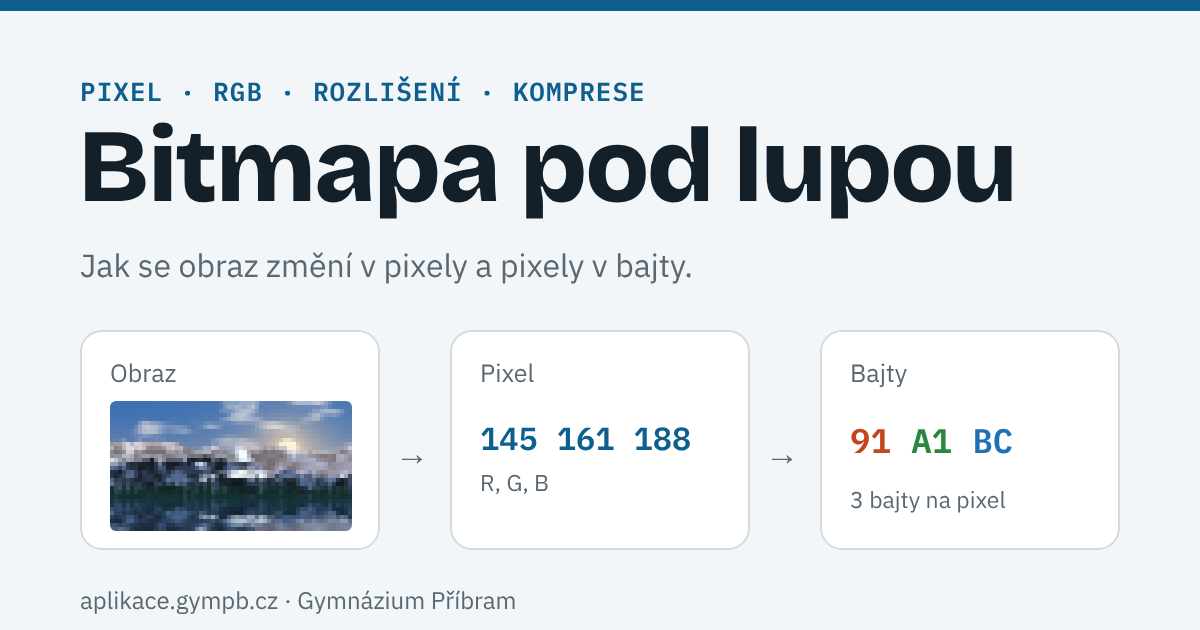
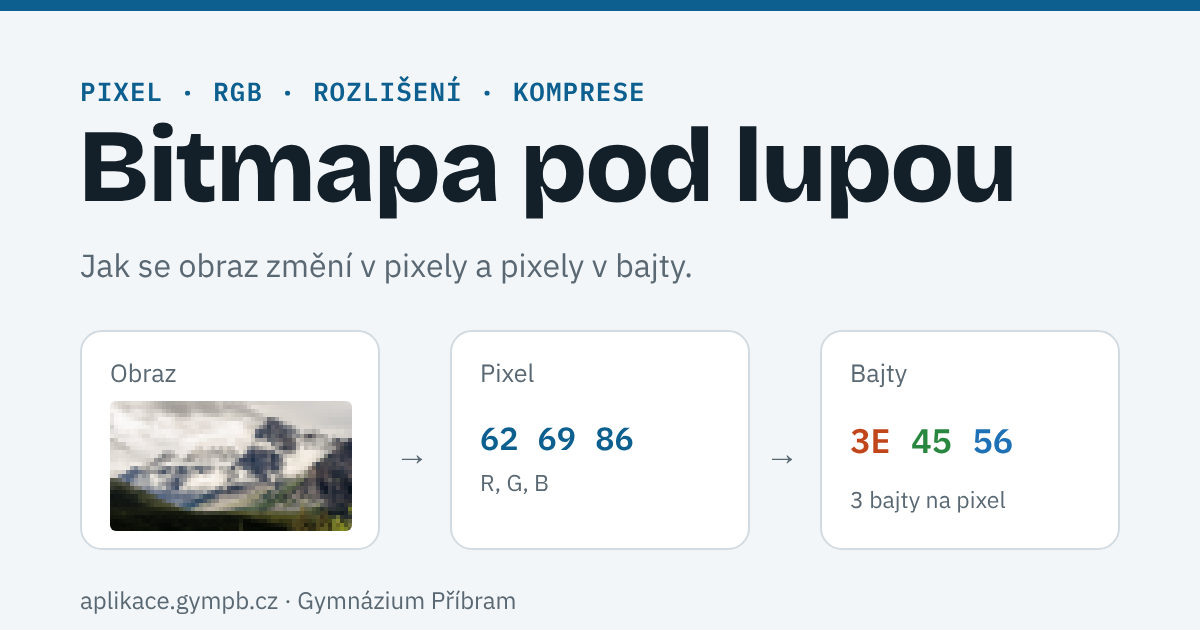
Bitmapa pod lupou: fotografie, české písmo na plakátu, šestnáctková soustava až v úrovni Pokročilý, HD ready a 5K
Claude-Session: https://claude.ai/code/session_01HrWVDGW6vytWfG9jkDxhtG

Changed region(s): [[0.0925, 0.6333, 0.3083, 0.8444], [0.4008, 0.6635, 0.5858, 0.7238], [0.7092, 0.6635, 0.8633, 0.7238]]

diff --git a/bitmapa-pod-lupou/index.html b/bitmapa-pod-lupou/index.html
@@ -348,6 +348,7 @@ canvas.tap{cursor:crosshair;touch-action:manipulation}
 .counts div{flex:1 1 130px}
 .ctl{display:grid;gap:10px}
 .nest{max-width:560px}
+canvas.pst{image-rendering:auto}
 #aa{max-width:520px}
 #chA{max-width:480px}
 #edN{grid-template-columns:1fr 1fr}
@@ -368,7 +369,7 @@ figcaption,.cap{font-size:.84rem;color:var(--muted);line-height:1.35}
 .bar{display:grid;grid-template-columns:minmax(84px,auto) minmax(0,1fr) minmax(76px,auto);gap:10px;align-items:center;font-size:.9rem}
 .bar i{display:block;height:16px;border-radius:0 4px 4px 0;background:var(--c,var(--accent));min-width:2px}
 .bar b{font:600 .88rem var(--mono);text-align:right}
-.bitgrid{display:grid;grid-template-columns:repeat(8,minmax(0,1fr)) minmax(4.4rem,auto) minmax(2.2rem,auto);gap:2px;align-items:center;max-width:430px}
+.bitgrid{display:grid;grid-template-columns:repeat(8,minmax(0,1fr)) minmax(4.8rem,auto);gap:2px;align-items:center;max-width:430px}
 .bitgrid button{aspect-ratio:1;border:1px solid var(--line);background:var(--paper);border-radius:3px;padding:0;cursor:pointer;min-width:0;min-height:30px}
 .bitgrid button[aria-pressed="true"]{background:var(--ink);border-color:var(--ink)}
 .bitgrid code{font-size:.74rem;padding-left:8px;white-space:nowrap}
@@ -467,8 +468,8 @@ canvas#ed{touch-action:none;cursor:crosshair}
     <div><span class="eyebrow">Kapitola 1</span><h2>Plakát, který z tiskárny vylezl rozbitý</h2></div>
     <p>Adéla dělá plakát na lyžák. Stáhla si hezký obrázek hor a na monitoru vypadal výborně. Z tiskárny na formát A2 ale vyšlo tohle:</p>
     <div class="duo">
-      <figure><canvas id="hookSmall" width="360" height="510" class="px" style="max-width:190px"></canvas><figcaption>Na monitoru: malý náhled, vypadá dobře.</figcaption></figure>
-      <figure><canvas id="hookBig" width="500" height="707" class="px"></canvas><figcaption>Vytištěno na A2 (42 × 59 cm): text je ostrý, hory jsou z kostek.</figcaption></figure>
+      <figure><canvas id="hookSmall" width="480" height="679" class="px pst" style="max-width:190px"></canvas><figcaption>Na monitoru: malý náhled, vypadá dobře.</figcaption></figure>
+      <figure><canvas id="hookBig" width="1000" height="1414" class="px pst"></canvas><figcaption>Vytištěno na A2 (42 × 59 cm): text je ostrý, hory jsou z kostek.</figcaption></figure>
     </div>
     <div class="cj-row"><span class="ct" data-s="s-boo"></span><p class="say"><b class="who">Čtverák</b>Au! To jsem já a moji bratranci, nafouknutí na velikost dlaždic. Jmenuju se Čtverák a jsem <b>pixel</b>. Pomůžeš mi zjistit, co se stalo?</p></div>
     <div class="kq poll" data-ok="*">
@@ -498,7 +499,7 @@ canvas#ed{touch-action:none;cursor:crosshair}
       <div><dt>Rozlišení</dt><dd>Kolik pixelů má obrázek na šířku a na výšku, třeba 1920 × 1080.</dd></div>
     </dl>
     <div class="box try"><span class="lbl">Obrázek z čísel</span>
-      <p>Název <b>bitmapa</b> je doslova „mapa bitů“. V nejjednodušším obrázku je pixel buď černý (1), nebo bílý (0). Vpravo od mřížky je zápis řádku v bitech a v šestnáctkové soustavě. Rozsviť políčka tak, aby sedělo všech 8 řádků:</p>
+      <p>Název <b>bitmapa</b> je doslova „mapa bitů“. V nejjednodušším obrázku je pixel buď černý (1), nebo bílý (0). Vpravo od mřížky je zápis každého řádku v bitech. Rozsviť políčka tak, aby sedělo všech 8 řádků ze zadání:</p>
       <p class="target" id="bitsTarget"></p>
       <div class="bitgrid" id="bits8"></div>
       <div class="cj-row"><span class="ct" id="bitsCt" data-s="s-ok"></span><p class="say" id="bitsSay"></p></div>
@@ -567,11 +568,12 @@ canvas#ed{touch-action:none;cursor:crosshair}
       <div class="why">Co se při focení neuložilo, v obrázku není. Zvětšení jen roztáhne to, co už tam je. Umělá inteligence umí detaily <i>vymyslet</i>, ale nejsou to skutečné informace ze scény.</div>
     </div>
     <p>Rozlišení displejů se značí zkratkami. Rámečky jsou ve stejném měřítku:</p>
-    <div class="nest" id="nest" aria-label="Porovnání velikosti HD, Full HD, 4K a 8K"></div>
+    <div class="nest" id="nest" aria-label="Porovnání velikosti HD ready, Full HD, 4K, 5K a 8K"></div>
     <div class="tw"><table><thead><tr><th>Název</th><th>Rozlišení</th><th>Pixelů</th><th>Kde se potkáte</th></tr></thead><tbody>
-      <tr><td>HD</td><td><code>1280 × 720</code></td><td>0,9 milionu</td><td>levné notebooky, starší televize</td></tr>
+      <tr><td>HD ready</td><td><code>1280 × 720</code></td><td>0,9 milionu</td><td>levné notebooky, starší televize</td></tr>
       <tr><td>Full HD</td><td><code>1920 × 1080</code></td><td>2,1 milionu</td><td>běžný monitor, video na YouTube</td></tr>
       <tr><td>4K UHD</td><td><code>3840 × 2160</code></td><td>8,3 milionu</td><td>televize, lepší monitory</td></tr>
+      <tr><td>5K</td><td><code>5120 × 2880</code></td><td>14,7 milionu</td><td>monitory pro grafiky a střih videa</td></tr>
       <tr><td>8K UHD</td><td><code>7680 × 4320</code></td><td>33,2 milionu</td><td>špičkové televize</td></tr>
     </tbody></table></div>
     <div class="box tip"><span class="lbl">Megapixel</span><p>Fotoaparáty a mobily uvádějí počet pixelů v <b>megapixelech</b>: 1 Mpx je milion pixelů. Snímek 4000 × 3000 má 12 Mpx. Poměr šířky a výšky se jmenuje <b>poměr stran</b>: televize má obvykle 16 : 9, fotka 4 : 3, mobil na výšku třeba 9 : 19,5.</p></div>
@@ -596,7 +598,7 @@ canvas#ed{touch-action:none;cursor:crosshair}
     <p>Jenže mobil uloží takovou fotku jen do 3 až 5 MB. Jak to? Obrázek se <b>zkomprimuje</b>. Dva hlavní přístupy zkoumej přímo: tady je opravdová velikost dvou obrázků, kterou právě teď spočítal tvůj prohlížeč.</p>
     <div class="box try"><span class="lbl">Fotka a kresba</span>
       <div class="duo">
-        <figure><canvas id="cmpA" width="480" height="320" class="px"></canvas><figcaption>Fotografie: plynulé přechody, zrno.</figcaption><div class="bars" id="cmpAb"></div></figure>
+        <figure><canvas id="cmpA" width="480" height="320" class="px"></canvas><figcaption>Fotografie: plynulé přechody, spousta detailů.</figcaption><div class="bars" id="cmpAb"></div></figure>
         <figure><canvas id="cmpB" width="480" height="320" class="px"></canvas><figcaption>Kresba: čisté plochy, ostré hrany, text.</figcaption><div class="bars" id="cmpBb"></div></figure>
       </div>
       <p class="muted" style="font-size:.92rem">Čím si to vysvětluješ? PNG si pamatuje každý pixel přesně a nejlépe mu jdou stejné plochy, proto je u fotky mnohem větší než JPG. JPG cíleně zahazuje detaily, což fotka snese. Kresba by po něm měla kolem písmen šmouhy.</p>
@@ -675,9 +677,9 @@ canvas#ed{touch-action:none;cursor:crosshair}
     <div><span class="eyebrow">Kapitola 1</span><h2>Od scény k bajtům</h2></div>
     <p>Skutečný svět je spojitý, počítač umí jen konečně mnoho čísel. Vznik bitmapy proto probíhá ve třech krocích.</p>
     <div class="chain" aria-label="Od scény k bajtům">
-      <div><small>1 · Vzorkování</small><span class="big mono" id="chPos">x 212, y 96</span><small>Scéna se rozdělí na mřížku. Kolik buněk, to je rozlišení.</small></div>
+      <div><small>1 · Vzorkování</small><span class="big mono" id="chPos">x 300, y 150</span><small>Scéna se rozdělí na mřížku. Kolik buněk, to je rozlišení.</small></div>
       <div><small>2 · Kvantování</small><span class="big mono" id="chRgb">—</span><small>Barva každé buňky se zaokrouhlí na konečný počet hodnot.</small></div>
-      <div><small>3 · Kódování</small><span class="big mono" id="chHex">—</span><small>Čísla se zapíšou do bajtů a řádek po řádku uloží do souboru.</small></div>
+      <div><small>3 · Kódování</small><span class="big mono" id="chHex">—</span><small>Čísla se zapíšou do bajtů a řádek po řádku uloží do souboru. Zápis v šestnáctkové soustavě vysvětlí kapitola 3.</small></div>
     </div>
     <dl class="terms">
       <div><dt>Rastrová (bitmapová) grafika</dt><dd>Obraz popsaný mřížkou pixelů. Vhodná na fotografie.</dd></div>
@@ -730,7 +732,17 @@ canvas#ed{touch-action:none;cursor:crosshair}
       <div class="venn add" id="venn"><svg viewBox="0 0 200 180" role="img" aria-label="Tři překrývající se barevné kruhy"><circle id="v1" cx="100" cy="65" r="55"/><circle id="v2" cx="68" cy="115" r="55"/><circle id="v3" cx="132" cy="115" r="55"/></svg></div>
       <p id="vennT"></p>
     </div>
-    <p>Na webu se barvy zapisují v šestnáctkové soustavě jako <b>HEX</b>: dvojice znaků za každou složku. Jedna šestnáctková číslice zapíše přesně 4 bity, takže bajt jsou vždy dva znaky, od <code>00</code> do <code>FF</code>.</p>
+    <p>Na webu a v grafických programech se barvy zapisují v šestnáctkové soustavě jako <b>HEX</b>: <code>#0C5F8F</code>. Číslice A až F znamenají hodnoty 10 až 15.</p>
+    <div class="box tip"><span class="lbl">Proč zrovna šestnáctková soustava</span>
+      <p>Počítač ukládá bity, jenže barva v bitech má 24 číslic a člověk se v nich snadno splete. Desítková čísla jsou kratší, ale hranice mezi bajty a bity v nich nejsou vidět.</p>
+      <p>Šestnáctková soustava obě nevýhody řeší, protože 16 = 2<sup>4</sup>: <b>jedna číslice zapíše přesně 4 bity</b>. Bajt jsou vždy dvě číslice, od <code>00</code> do <code>FF</code>, a každá složka barvy má pevné místo.</p>
+      <div class="tw"><table><thead><tr><th>Zápis</th><th>Stejná barva</th><th>Délka</th></tr></thead><tbody>
+        <tr><td>dvojkově</td><td><code>00001100 01011111 10001111</code></td><td>24 znaků</td></tr>
+        <tr><td>desítkově</td><td><code>12, 95, 143</code></td><td>různá</td></tr>
+        <tr><td>šestnáctkově</td><td><code>0C 5F 8F</code></td><td>vždy 6 znaků</td></tr>
+      </tbody></table></div>
+      <p>Barvu je z něj navíc vidět na první pohled: <code>#FF0000</code> má naplno první složku, tedy červenou.</p>
+    </div>
     <div class="box try"><span class="lbl">Jedna barva, čtyři zápisy</span>
       <div class="ctl">
         <div class="sl r"><label for="hR">Červená (R)</label><output id="hRv"></output><input type="range" id="hR" min="0" max="255" value="12"></div>
@@ -755,7 +767,7 @@ canvas#ed{touch-action:none;cursor:crosshair}
     <div class="kq poll" data-ok="*">
       <p class="q">Odhadni: kolik odstínů na jednu složku RGB je potřeba, aby fotka vypadala přirozeně?</p>
       <div class="opts"><button data-v="a">Stačí 4.</button><button data-v="b">Asi 32.</button><button data-v="c">Nejméně 256.</button></div>
-      <div class="why">Ověř si to na obrázku níže. Začni na hodnotě 8 bitů a postupně ubírej, nejlépe na plynulém pozadí scény Koule.</div>
+      <div class="why">Ověř si to na obrázku níže. Začni na hodnotě 8 bitů a postupně ubírej, nejlépe na obloze ve scéně Soumrak.</div>
     </div>
     <p><b>Barevná hloubka</b> říká, kolik bitů připadá na pixel. S <i>n</i> bity lze rozlišit <b>2<sup>n</sup></b> hodnot.</p>
     <div class="box try"><span class="lbl">Ubírej bity</span>
@@ -939,7 +951,7 @@ canvas#ed{touch-action:none;cursor:crosshair}
       <div class="seg" id="ipSeg"><button data-m="nearest" aria-pressed="true">Nejbližší soused</button><button data-m="bilinear" aria-pressed="false">Bilineární</button><button data-m="bicubic" aria-pressed="false">Bikubická</button></div>
       <div class="duo">
         <figure><canvas id="ipC" width="360" height="240" class="px"></canvas><figcaption id="ipT"></figcaption></figure>
-        <figure><canvas id="ipO" width="60" height="40" class="px" style="max-width:240px"></canvas><figcaption>Zdroj má jen 60 × 40 pixelů. Žádná metoda z něj nevyrobí ostré jehličí.</figcaption></figure>
+        <figure><canvas id="ipO" width="60" height="40" class="px" style="max-width:240px"></canvas><figcaption>Zdroj má jen 60 × 40 pixelů. Žádná metoda z něj nevyrobí ostré skály.</figcaption></figure>
       </div>
     </div>
     <div class="box try"><span class="lbl">Zubaté hrany</span>
@@ -1092,7 +1104,7 @@ canvas#ed{touch-action:none;cursor:crosshair}
   </div>
   <div class="cols">
     <div class="panel"><h3>Co je v paměti</h3>
-      <div class="seg" id="edView"><button data-v="hex" aria-pressed="true">Šestnáctkově</button><button data-v="bin" aria-pressed="false">Dvojkově</button><button data-v="rle" aria-pressed="false">RLE</button></div>
+      <div class="seg" id="edView"><button data-v="bin" aria-pressed="true">Dvojkově</button><button data-v="hex" aria-pressed="false">Šestnáctkově</button><button data-v="rle" aria-pressed="false">RLE</button></div>
       <div class="dump" id="edDump" tabindex="0" aria-label="Obsah obrázku v paměti"></div>
     </div>
     <div class="panel"><h3>Uložit</h3>
@@ -1274,7 +1286,7 @@ magick identify foto.jpg</pre>
 </ol>
 <p>Nápady na pokusy vznikly i z žákovských prací v <a href="../portfolio/">portfoliu</a>: skupiny 4A-BST a Seminář informačních technologií, školní rok 2026/27.</p>
 </details>
-<p>Bitmapa pod lupou · výukový materiál. Ukázkové obrázky generuje aplikace přímo v prohlížeči. Velikosti souborů jsou skutečné a závisejí na prohlížeči.<br>Autor: Ivo Bešťák · Gymnázium Příbram · Licence <a href="https://creativecommons.org/licenses/by/4.0/deed.cs">CC BY 4.0</a> · Aktualizace: 5. 11. 2026</p></footer>
+<p>Bitmapa pod lupou · výukový materiál. Fotografie: Unsplash, licence CC0. Velikosti souborů jsou skutečné a závisejí na prohlížeči.<br>Autor: Ivo Bešťák · Gymnázium Příbram · Licence <a href="https://creativecommons.org/licenses/by/4.0/deed.cs">CC BY 4.0</a> · Aktualizace: 5. 11. 2026</p></footer>
 </div>
 
 <script>
@@ -1332,47 +1344,6 @@ function vnoise(seed){
 }
 const fbm=(n,x,y,o=5)=>{let s=0,a=.5,f=1;for(let i=0;i<o;i++){s+=a*n(x*f,y*f);a*=.5;f*=2.03;}return s;};
 const mix=(a,b,t)=>a+(b-a)*t;
-function sceneLand(){
-  const W=W0,H=H0,d=new Uint8ClampedArray(W*H*4), n=vnoise(7), rn=mkRng(3), water=236;
-  const put=(i,r,g,b)=>{d[i]=r;d[i+1]=g;d[i+2]=b;d[i+3]=255;};
-  const L=[{y:128,a:58,f:.012,s:1,c:[138,160,196]},{y:158,a:86,f:.009,s:9,c:[92,116,156]},{y:196,a:92,f:.0075,s:23,c:[58,78,104]}];
-  const rid=L.map(l=>{const a=new Float32Array(W);for(let x=0;x<W;x++)a[x]=l.y-(fbm(n,x*l.f+l.s,l.s*.7,6)-.45)*2*l.a;return a;});
-  for(let y=0;y<water;y++)for(let x=0;x<W;x++){
-    const t=y/water; let r=mix(62,248,t*t),g=mix(112,196,t*t),b=mix(178,150,t*t);
-    const ds=Math.hypot(x-352,y-112), glow=Math.exp(-ds/60); r=mix(r,255,glow);g=mix(g,226,glow*.9);b=mix(b,170,glow*.6);
-    if(ds<19){r=255;g=246;b=214;}
-    const c=clamp((fbm(n,x*.012+40,y*.03+9,5)-.52)*5,0,1)*(1-t*.7); r=mix(r,255,c*.8);g=mix(g,240,c*.8);b=mix(b,232,c*.8);
-    for(let k=0;k<3;k++){const ry=rid[k][x]; if(y<ry) continue; const l=L[k];
-      const tex=fbm(n,x*.05+k*5,y*.05,4), sh=clamp(.62+(tex-.48)*2.1,.25,1.35), de=y-ry;
-      r=l.c[0]*sh;g=l.c[1]*sh;b=l.c[2]*sh;
-      const snowH=k===2?34:k===1?22:12, line=l.y-l.a*.1+(tex-.5)*44;
-      if(y<line&&de<snowH+tex*36){const sn=clamp(.82+(tex-.5)*1.6,.45,1.08);r=232*sn;g=238*sn;b=250*sn;}
-      if(k===0){const hz=.45;r=mix(r,214,hz);g=mix(g,190,hz);b=mix(b,190,hz);}
-    }
-    if(y>190){const tr=x+Math.floor(fbm(n,x*.3,1,2)*24);const h=20+fbm(n,tr*.09,4,3)*44,top=water-h;
-      const col=Math.abs(((x+Math.floor(y*.1))%19)-9)<(y-top)*.22; if(y>top&&col){const v=.6+fbm(n,x*.4,y*.4,2)*.8;r=20*v;g=52*v;b=44*v;}}
-    put((y*W+x)*4,r,g,b);
-  }
-  for(let y=water;y<H;y++)for(let x=0;x<W;x++){
-    const wv=Math.sin(y*.9+fbm(n,x*.03,y*.2,3)*9)*(y-water)*.09, sy=clamp(Math.round(2*water-y+wv*.4),0,water-1), sx=clamp(Math.round(x+wv),0,W-1), j=(sy*W+sx)*4, f=.72;
-    put((y*W+x)*4,d[j]*f+8,d[j+1]*f+18,d[j+2]*f+30);
-  }
-  for(let i=0;i<d.length;i+=4){const g=(rn()-.5)*7;d[i]=d[i]+g;d[i+1]=d[i+1]+g;d[i+2]=d[i+2]+g;}
-  return new ImageData(d,W,H);
-}
-function sceneBalls(){
-  const W=W0,H=H0,d=new Uint8ClampedArray(W*H*4);
-  const S=[[150,190,74,[214,58,48]],[318,172,92,[42,120,214]],[238,258,44,[240,190,50]],[70,262,34,[40,170,110]],[420,270,38,[150,80,200]]];
-  const L=[-.5,-.7,.5], ll=Math.hypot(...L), lx=L[0]/ll,ly=L[1]/ll,lz=L[2]/ll;
-  for(let y=0;y<H;y++)for(let x=0;x<W;x++){
-    const t=y/H; let r=mix(232,108,t),g=mix(236,124,t),b=mix(242,150,t);
-    for(const [cx,cy,R] of S){const dx=(x-cx-R*.4)/(R*1.15),dy=(y-cy-R*.9)/(R*.34),e=dx*dx+dy*dy;if(e<1){const f=1-.5*(1-e);r*=f;g*=f;b*=f;}}
-    for(const [cx,cy,R,c] of S){const dx=(x-cx)/R,dy=(y-cy)/R,q=dx*dx+dy*dy;if(q<=1){const z=Math.sqrt(1-q),di=Math.max(0,dx*lx+dy*ly+z*lz);
-      const hz=2*di*z-lz,sp=Math.pow(Math.max(0,hz),40),a=.16+.84*di;r=c[0]*a+255*sp;g=c[1]*a+255*sp;b=c[2]*a+255*sp;}}
-    const i=(y*W+x)*4;d[i]=r;d[i+1]=g;d[i+2]=b;d[i+3]=255;
-  }
-  return new ImageData(d,W,H);
-}
 function sceneFlat(){
   const c=mkC(W0,H0),x=c.getContext('2d',{willReadFrequently:true});
   x.fillStyle='#fdf6e3';x.fillRect(0,0,W0,H0);x.fillStyle='#0c5f8f';x.fillRect(0,0,W0,92);
@@ -1390,10 +1361,16 @@ function sceneZone(){
   for(let y=0;y<H;y++)for(let x=0;x<W;x++){const r2=(x-W/2)**2+(y-H/2)**2,v=127.5+127.5*Math.cos(r2*.0065),i=(y*W+x)*4;d[i]=d[i+1]=d[i+2]=v;d[i+3]=255;}
   return new ImageData(d,W,H);
 }
-const SC={krajina:['Krajina',sceneLand],koule:['Koule',sceneBalls],plochy:['Kresba',sceneFlat],vlny:['Jemné vlny',sceneZone]};
+const PHOTOS={krajina:'foto-hory.jpg',soumrak:'foto-soumrak.jpg'}, fullCache={};
+const SC={krajina:['Hory',null],soumrak:['Soumrak',null],plochy:['Kresba',sceneFlat],vlny:['Jemné vlny',sceneZone]};
 const scCache={};
+function loadPhoto(k){return new Promise(res=>{const im=new Image();
+  im.onload=()=>{const c=mkC(im.naturalWidth,im.naturalHeight),x=c.getContext('2d',{willReadFrequently:true});x.drawImage(im,0,0);
+    fullCache[k]=x.getImageData(0,0,c.width,c.height);scCache[k]=down(fullCache[k],W0,H0);res();};
+  im.onerror=()=>{scCache[k]=sceneFlat();res();};im.src=PHOTOS[k];});}
 function mkC(w,h){const c=document.createElement('canvas');c.width=w;c.height=h;return c;}
 function scene(k){return scCache[k]||(scCache[k]=SC[k][1]());}
+const fullScene=k=>fullCache[k]||scene(k);
 function put(cv,img){if(cv.width!==img.width)cv.width=img.width;if(cv.height!==img.height)cv.height=img.height;cv.getContext('2d').putImageData(img,0,0);}
 function chipScene(el,def,fn,keys){
   keys=keys||Object.keys(SC);
@@ -1535,11 +1512,11 @@ function drawPoster(cv,sw){
   x.font=`400 ${4.4*u}px "IBM Plex Sans",sans-serif`;x.fillText('u vyučujících tělesné výchovy',W/2,H-9*u);
   x.textAlign='start';
 }
-function posters(){drawPoster($('#hookSmall'),480);drawPoster($('#hookBig'),36);$('#cmpB').getContext('2d').putImageData(scene('plochy'),0,0);}
+function posters(){drawPoster($('#hookSmall'),480);drawPoster($('#hookBig'),48);$('#cmpB').getContext('2d').putImageData(scene('plochy'),0,0);}
 
 /* přiblížení a inspektor */
 (function(){
-  const cv=$('#zoomC'),ctx=cv.getContext('2d'),S=$('#zoomS');let img,sel=[352,112],cx=352,cy=112;
+  const cv=$('#zoomC'),ctx=cv.getContext('2d'),S=$('#zoomS');let img,sel=[318,62],cx=318,cy=62;
   const P=320;
   function draw(){
     img=img||scene('krajina');
@@ -1558,7 +1535,7 @@ function posters(){drawPoster($('#hookSmall'),480);drawPoster($('#hookBig'),36);
   }
   function info(){
     const i=(sel[1]*W0+sel[0])*4,d=img.data,[r,g,b]=[d[i],d[i+1],d[i+2]];
-    $('#zoomF').innerHTML=`<dt>Sloupec, řádek</dt><dd>${sel[0]}, ${sel[1]}</dd><dt>Červená</dt><dd>${r}</dd><dt>Zelená</dt><dd>${g}</dd><dt>Modrá</dt><dd>${b}</dd><dt>Bajty</dt><dd>${hx(r)} ${hx(g)} ${hx(b)}</dd>`;
+    $('#zoomF').innerHTML=`<dt>Sloupec, řádek</dt><dd>${sel[0]}, ${sel[1]}</dd><dt>Červená</dt><dd>${r}</dd><dt>Zelená</dt><dd>${g}</dd><dt>Modrá</dt><dd>${b}</dd>`;
     $('#zoomSw').style.background=`rgb(${r},${g},${b})`;
   }
   lazy.zoom=()=>{draw();info();};
@@ -1573,11 +1550,11 @@ function posters(){drawPoster($('#hookSmall'),480);drawPoster($('#hookBig'),36);
   const G=$('#bits8');let t=0,cur=new Array(8).fill(0);
   function draw(){
     const T=PICS[t][1];
-    G.innerHTML=cur.map((v,y)=>[...Array(8)].map((_,x)=>`<button aria-label="Řádek ${y+1}, sloupec ${x+1}" aria-pressed="${!!(v>>(7-x)&1)}" data-y="${y}" data-x="${x}"></button>`).join('')+`<code class="${v===T[y]?'good':''}">${bin(v)}</code><code class="h">${hx(v)}</code>`).join('');
-    $('#bitsTarget').innerHTML=T.map((v,i)=>`<span>${i+1}: ${hx(v)}</span>`).join('');
+    G.innerHTML=cur.map((v,y)=>[...Array(8)].map((_,x)=>`<button aria-label="Řádek ${y+1}, sloupec ${x+1}" aria-pressed="${!!(v>>(7-x)&1)}" data-y="${y}" data-x="${x}"></button>`).join('')+`<code class="${v===T[y]?'good':''}">${bin(v)}</code>`).join('');
+    $('#bitsTarget').innerHTML=T.map((v,i)=>`<span>${i+1}: ${bin(v)}</span>`).join('');
     const ok=cur.every((v,i)=>v===T[i]);
     ctDraw($('#bitsCt'),ok?'s-win':'s-ok');
-    $('#bitsSay').innerHTML=`<b class="who">Čtverák</b>`+(ok?`To je ${PICS[t][0]}! Přesně tak vidí obrázek počítač: 8 bajtů. Každý z nich je jeden řádek.`:`Začni třeba tím, že si převedeš řádek ze zadání: <code>${hx(T[1])}</code> je dvojkově <code>${bin(T[1])}</code>. Jednička je černé políčko.`);
+    $('#bitsSay').innerHTML=`<b class="who">Čtverák</b>`+(ok?`To je ${PICS[t][0]}! Přesně tak vidí obrázek počítač: 8 bajtů. Každý z nich je jeden řádek.`:`Jednička v zadání je černé políčko, nula bílé. Začni druhým řádkem: <code>${bin(T[1])}</code>.`);
   }
   G.onclick=e=>{const b=e.target.closest('[data-y]');if(!b)return;cur[+b.dataset.y]^=1<<(7-+b.dataset.x);draw();};
   $('#bitsNew').onclick=()=>{t=(t+1)%PICS.length;cur=new Array(8).fill(0);draw();};
@@ -1614,7 +1591,7 @@ function rgbSliders(ids,fn){
     $('#resV').textContent=`${w} × ${h}`;
     $('#resN').innerHTML=`<div><b>${nf(w*h)}</b><span>pixelů celkem</span></div><div><b>${fmtSize(w*h*3)}</b><span>bez komprese</span></div>`;}
   lazy.res=run;S.oninput=run;
-  const R=[['8K',7680,4320,'var(--k1)'],['4K',3840,2160,'var(--k3)'],['Full HD',1920,1080,'var(--k2)'],['HD',1280,720,'var(--k4)']];
+  const R=[['8K',7680,4320,'var(--k1)'],['5K',5120,2880,'var(--r)'],['4K',3840,2160,'var(--k3)'],['Full HD',1920,1080,'var(--k2)'],['HD ready',1280,720,'var(--k4)']];
   $('#nest').innerHTML=R.map(([n,w,h,c])=>`<div style="width:${w/76.8}%;height:${h/43.2}%;--c:${c}"><span>${n}</span></div>`).join('');
 })();
 
@@ -1694,7 +1671,7 @@ runGame({body:'#pBody',r:'#pRound',s:'#pScore',win:'Plakáty jsou zachráněné,
 /* ========== POKROČILÝ ========== */
 lazy.r4=function(){
   /* řetězec */
-  {const i=scene('krajina'),p=(96*W0+212)*4,d=i.data,[r,g,b]=[d[p],d[p+1],d[p+2]];
+  {const i=scene('krajina'),p=(150*W0+300)*4,d=i.data,[r,g,b]=[d[p],d[p+1],d[p+2]];
    $('#chRgb').textContent=`${r}, ${g}, ${b}`;$('#chHex').textContent=`${hx(r)} ${hx(g)} ${hx(b)}`;}
   /* bitmapa a vektor */
   {const c=$('#vecC');c.width=c.height=40;const x=c.getContext('2d');x.fillStyle='#fff';x.fillRect(0,0,40,40);x.fillStyle='#0c5f8f';x.beginPath();x.arc(20,20,15,0,7);x.fill();
@@ -1703,10 +1680,10 @@ lazy.r4=function(){
    const wr=$('#vecR');wr.style.display='grid';wr.style.placeItems='center';
    const s=$('#vecS2'),S=$('#vecS');S.oninput=()=>{const z=+S.value,w=40/z,o=20-w/2;c.style.transform=`scale(${z})`;s.setAttribute('viewBox',`${o} ${o} ${w} ${w}`);$('#vecV').textContent=z+'×';};}
   /* barevná hloubka */
-  {let k='koule';const S=$('#depS'),D=$('#depD');
+  {let k='soumrak';const S=$('#depS'),D=$('#depD');
    function run(){const n=+S.value,o=quant(scene(k),n,D.checked);put($('#depC'),o);$('#depV').textContent=n;
      const bp=n*3;$('#depN').innerHTML=`<div><b>${1<<n}</b><span>odstínů na složku</span></div><div><b>${bp}</b><span>bitů na pixel</span></div><div><b>${nf(2**bp)}</b><span>barev celkem</span></div><div><b>${fmtSize(W0*H0*bp/8)}</b><span>bez komprese</span></div>`;}
-   chipScene($('#depScene'),k,v=>{k=v;run();},['krajina','koule']);S.oninput=run;D.onchange=run;run();}
+   chipScene($('#depScene'),k,v=>{k=v;run();},['soumrak','krajina']);S.oninput=run;D.onchange=run;run();}
   jpegDemo();interp();aaDemo();
 };
 const V={add:[['#f00','#0f0','#00f'],'Na černém pozadí svítí tři světla. Kde se překrývají, přibývá světla: červená a zelená dají žlutou, všechny tři bílou. Tak funguje displej.'],
@@ -1766,7 +1743,7 @@ $('#fadeC').onclick=()=>{const a=parseN($('#fadeA').value),b=parseN($('#fadeB').
 /* JPEG */
 function jpegDemo(){
   let k='plochy',tok=0,tm;const S=$('#jpS'),C=$('#jpC'),Z=$('#jpZ');
-  const CROP={plochy:[250,116,120,80],krajina:[300,150,120,80],koule:[190,130,120,80]};
+  const CROP={plochy:[250,116,120,80],krajina:[300,150,120,80],soumrak:[190,60,120,80]};
   function zoom(){const [x,y,w,h]=CROP[k],z=Z.getContext('2d');z.imageSmoothingEnabled=false;z.drawImage(C,x,y,w,h,0,0,240,160);}
   async function run(){
     const t=++tok,q=+S.value,src=scene(k);$('#jpV').textContent=q;
@@ -1778,7 +1755,7 @@ function jpegDemo(){
     $('#genT').textContent='';
   }
   S.oninput=()=>{clearTimeout(tm);tm=setTimeout(run,60);};
-  chipScene($('#jpScene'),k,v=>{k=v;run();},['plochy','krajina','koule']);
+  chipScene($('#jpScene'),k,v=>{k=v;run();},['plochy','krajina','soumrak']);
   $('#genB').onclick=async()=>{
     const b=$('#genB');b.disabled=true;tok++;let im=scene(k),sz=0;
     for(let n=1;n<=30;n++){
@@ -1856,7 +1833,7 @@ function aaDemo(){
 })();
 /* ========== LABORATOŘ ========== */
 lazy.lab=function(){
-  let base=scene('krajina'),sel=[240,110],proc,tok=0,tm;
+  let base=fullScene('krajina'),sel=[480,220],proc,tok=0,tm;
   const SC_=[1,2,4,8,16,32],E=id=>$('#'+id);
   function make(){
     const f=SC_[+E('labS').value],w=Math.max(1,Math.round(base.width/f)),h=Math.max(1,Math.round(base.height/f));
@@ -1902,7 +1879,7 @@ lazy.lab=function(){
   ['labS','labB','labQ'].forEach(i=>E(i).oninput=i==='labQ'?()=>{clearTimeout(tm);tm=setTimeout(comp,80);}:run);
   ['labD','labR','labG','labBl','labGr'].forEach(i=>E(i).onchange=run);
   E('labC').onclick=e=>{const r=E('labC').getBoundingClientRect();sel=[Math.floor((e.clientX-r.left)/r.width*proc.width),Math.floor((e.clientY-r.top)/r.height*proc.height)];pxl();};
-  chipScene(E('labScene'),'krajina',k=>{base=scene(k);sel=[Math.round(base.width/2),Math.round(base.height/3)];run();});
+  chipScene(E('labScene'),'krajina',k=>{base=fullScene(k);sel=[Math.round(base.width/2),Math.round(base.height/3)];run();});
   E('labFile').onchange=async e=>{const f=e.target.files[0];if(!f)return;
     try{const bm=await createImageBitmap(f),m=Math.min(1,960/Math.max(bm.width,bm.height)),w=Math.round(bm.width*m),h=Math.round(bm.height*m),c=mkC(w,h),x=c.getContext('2d',{willReadFrequently:true});
       x.imageSmoothingQuality='high';x.drawImage(bm,0,0,w,h);base=x.getImageData(0,0,w,h);
@@ -1922,7 +1899,7 @@ lazy.dilna=function(){
   const PAL={1:[0x000000,0xffffff],2:[0x132029,0x0c5f8f,0xf2b807,0xfffdf8],4:P16,24:P16};
   const H8={Srdce:[0x00,0x66,0xFF,0xFF,0x7E,0x3C,0x18,0x00],Raketa:[0x18,0x3C,0x3C,0x7E,0x7E,0x18,0x3C,0x66]};
   const TREE=['................','.......gg.......','......gggg......','.....gGggGg.....','....gggggggg....','...ggGggggGgg...','..gggggGgggggg..','...gggggggggg...','....ggGgggGg....','...gggggggggg...','..gggGggggGggg..','.....gggggg.....','.......bb.......','.......bb.......','......bbbb......','................'];
-  let N=16,bits=4,col=0x000000,tool='pen',grid=true,view='hex',undo=[],data=new Int32Array(N*N).fill(0xffffff),drag=false;
+  let N=16,bits=4,col=0x000000,tool='pen',grid=true,view='bin',undo=[],data=new Int32Array(N*N).fill(0xffffff),drag=false;
   const cv=$('#ed'),ctx=cv.getContext('2d');
   const hc=v=>'#'+v.toString(16).padStart(6,'0');
   const pal=()=>PAL[bits];
@@ -2060,7 +2037,10 @@ function boot(){
   let t=(location.hash||'').slice(1);t=ALIAS[t]||t;if(!TABS.includes(t)) t=lsGet('bitmapaTab')||'r1';
   setTab(t);
 }
-(document.fonts&&document.fonts.ready?Promise.race([document.fonts.load('800 40px "Bricolage Grotesque"'),new Promise(r=>setTimeout(r,800))]):Promise.resolve()).then(boot,boot);
+/* česká písmena jsou v samostatném souboru písma, canvas ho musí mít načtený předem */
+const CZ='ŽŠČŘĎŤŇÁÉÍÝÚŮĚžščřďťňáéíýúůě',FACES=['800 40px "Bricolage Grotesque"','600 20px "IBM Plex Sans"','400 20px "IBM Plex Sans"'];
+const fontsOk=document.fonts?Promise.race([Promise.all(FACES.map(f=>document.fonts.load(f,'Aa'+CZ))),new Promise(r=>setTimeout(r,2500))]).catch(()=>{}):Promise.resolve();
+Promise.all([fontsOk,...Object.keys(PHOTOS).map(loadPhoto)]).then(boot,boot);
 </script>
 
 </body>
